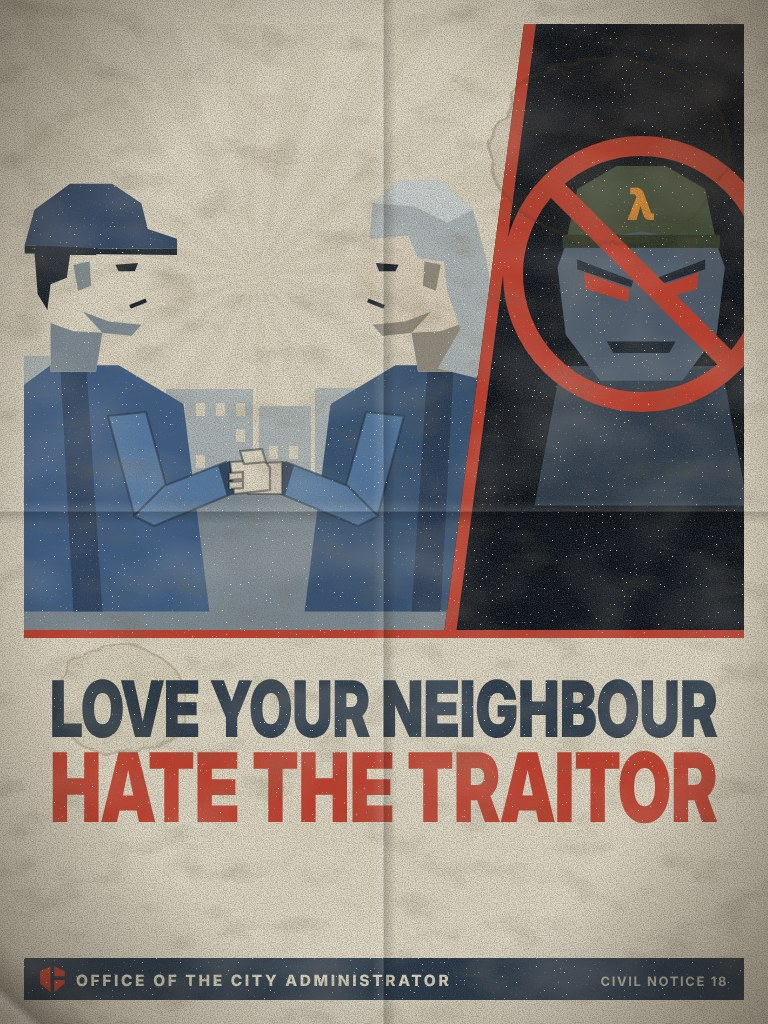
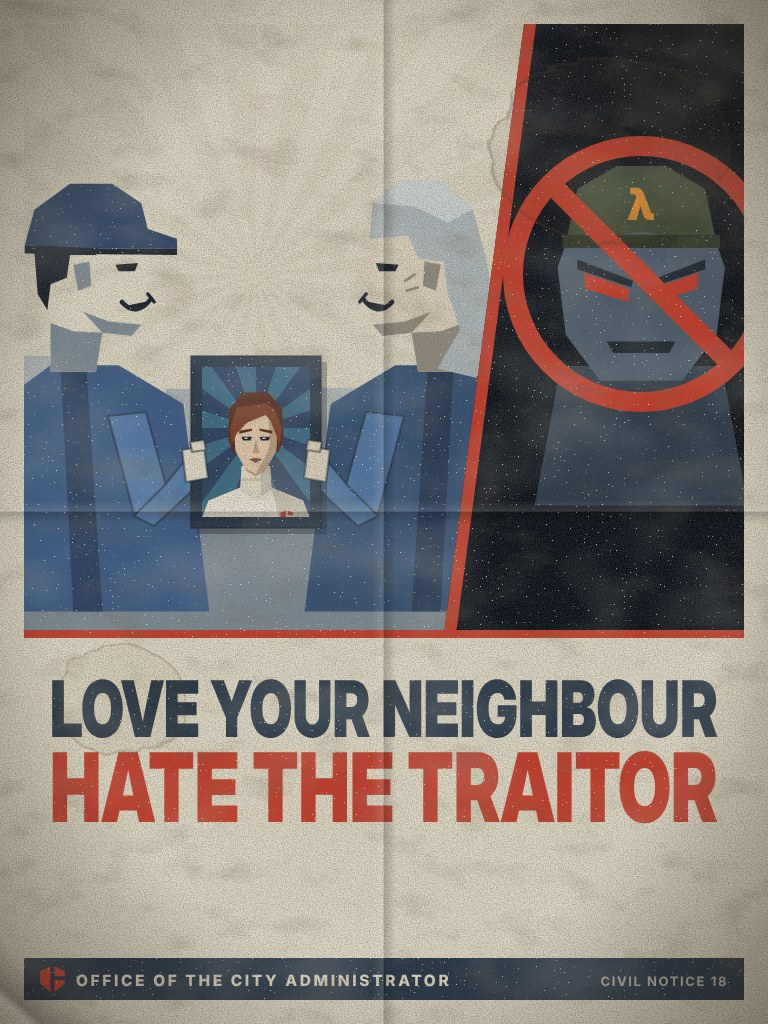
Slogan poster: the younger hands the older a portrait of the Administrator
The handshake is gone. A younger man hands an older woman a framed
portrait of the Administrator, and both are smiling.

Claude-Session: https://claude.ai/code/session_01Y8SXQorFoe55U3GQd1K7aN

Changed region(s): [[0.2188, 0.3438, 0.4688, 0.5312], [0.1562, 0.2812, 0.2188, 0.3125], [0.4688, 0.2812, 0.5, 0.3125]]

diff --git a/_dev/posters/slogan.js b/_dev/posters/slogan.js
@@ -1,25 +1,29 @@
 // The owner's slogan as a poster (14 November): LOVE YOUR NEIGHBOUR, HATE THE TRAITOR. Kind "neighbour",
 // one of the Director of Propaganda's hand-hung posters (entities/lc_civposter.lua). Drawn by gen.js.
-const { C, P, R, G, rays, head } = require('./lib.js');
+const { C, P, R, G, rays, head, adminBust } = require('./lib.js');
 const { E, L, T, skyline } = require('./dreamkit.js');
 
 const ART = {};
 ART.neighbour = () => {
   let s = R(0, 0, 720, 610, '#d6cfba') + rays(232, 250, 40, 1000, C.paper, 0, 360, 'opacity=".75"');
   s += skyline(470, C.steel2, '#d6cfba', 22, 110) + R(0, 466, 720, 144, C.steel);
-  // the neighbours: a man and a woman of the block, shaking hands
+  // the neighbours: the younger hands the older a framed portrait of the Administrator; both smile
   const body = (t, bd) => P('M-34,270 L-16,152 L30,118 L72,118 L112,142 L128,270Z', t) + P('M36,118 L52,118 L62,270 L44,270Z', bd);
   const scarf = P('M16,52 L24,22 L44,4 L70,4 L86,18 L88,40 L64,38 L58,52 L42,54 L40,72 L32,96 L46,120 L22,126 L10,86Z', C.steel2) + P('M24,22 L44,4 L70,4 L86,18 L60,20 L40,30Z', '#c9d0d0');
-  s += G('translate(-22,150) scale(1.62)', body(C.blue, C.blueD) + head({ cap: C.blueD, smile: true }));
-  s += G('translate(488,150) scale(-1.62,1.62)', body('#335073', '#263a55') + head({ skin: '#d8cdb8', sh: '#8f8a7c', hair: C.steel2, smile: true }) + scarf);
-  // their arms (shoulder, elbow, wrist), meeting in the open between them: his thumb over her hand
+  const smile = L('M74,79 Q83,89 92,77', C.ink, 2.8) + L('M90,74 L94,79', C.ink, 2);
+  const skinB = '#d8cdb8', shB = '#8f8a7c';
+  s += G('translate(-22,150) scale(1.62)', body(C.blue, C.blueD) + head({ cap: C.blueD }) + smile);
+  s += G('translate(488,150) scale(-1.62,1.62)', body('#335073', '#263a55') + head({ skin: skinB, sh: shB, hair: C.steel2 }) + scarf + smile + L('M60,62 L66,66 M58,70 L65,72', shB, 1.6));
   const O = `stroke="${C.ink}" stroke-width="2.2" stroke-opacity=".5" stroke-linejoin="round"`;
-  const skinB = '#d8cdb8';
-  s += P('M380,392 L342,388 L318,476 L354,490Z', '#4f77a3', O) + P('M354,492 L324,462 L262,438 L252,468 L334,502Z', '#4f77a3', O) + P('M270,441 L258,437 L249,468 L261,472Z', '#263a55');
-  s += P('M222,440 L258,438 L258,470 L224,470Z', skinB, O);
-  s += P('M84,392 L122,388 L146,476 L110,490Z', C.blue2, O) + P('M110,492 L140,462 L202,438 L212,468 L130,502Z', C.blue2, O) + P('M194,441 L206,437 L215,468 L203,472Z', C.blueD);
-  s += P('M206,438 L240,436 L246,444 L246,466 L210,470Z', C.paper, O) + P('M216,427 L238,425 L242,438 L220,440Z', C.paper, O);
-  s += P('M205,449 L219,448 L219,455 L205,456Z', skinB, O) + P('M205,458 L219,457 L219,464 L205,465Z', skinB, O);
+  // their arms (shoulder, elbow, wrist), out to the frame
+  s += P('M380,392 L342,388 L318,476 L354,490Z', '#4f77a3', O) + P('M354,492 L324,462 L296,428 L282,454 L334,502Z', '#4f77a3', O);
+  s += P('M84,392 L122,388 L146,476 L110,490Z', C.blue2, O) + P('M110,492 L140,462 L168,428 L182,454 L130,502Z', C.blue2, O);
+  // the portrait
+  s += R(173, 338, 130, 172, '#10161f', 'opacity=".35"') + R(167, 332, 130, 172, C.slate, O) + R(178, 343, 108, 150, C.blueD);
+  s += `<clipPath id="gift"><rect x="178" y="343" width="108" height="150"/></clipPath><g clip-path="url(#gift)">` + rays(232, 404, 20, 240, C.cyan, 0, 360, 'opacity=".3"') + G('translate(168,352) scale(0.75)', adminBust({ pin: C.red })) + '</g>';
+  // his hand letting go of it, hers taking it
+  s += P('M158,426 L180,422 L184,454 L162,458Z', C.paper, O) + P('M166,418 L180,416 L182,426 L168,428Z', C.paper, O);
+  s += P('M306,426 L284,422 L280,454 L302,458Z', skinB, O) + P('M298,418 L284,416 L282,426 L296,428Z', skinB, O);
   // the traitor
   s += P('M500,0 L720,0 L720,610 L420,610Z', '#0b1119') + P('M500,0 L512,0 L432,610 L420,610Z', C.red);
   s += G('translate(322,96) scale(0.82)', [

diff --git a/POSTER_BRIEF.md b/POSTER_BRIEF.md
@@ -95,4 +95,4 @@ Some plain curfew posters show a dream's poster instead (`docs/features/dream-po
 
 ## Her slogan
 
-`neighbour` (and `neighbour_x`, painted over: LIES): **LOVE YOUR NEIGHBOUR, HATE THE TRAITOR**, the owner's own slogan (14 November), with no smaller words. Two neighbours, a man and a woman of the block, shaking hands (no heart: the owner, 14 November); beside them, in the dark, a Resistance face struck out in red. It is on the Director of Propaganda's poster roll with the eleven above. Drawn by `_dev/posters/slogan.js`.
+`neighbour` (and `neighbour_x`, painted over: LIES): **LOVE YOUR NEIGHBOUR, HATE THE TRAITOR**, the owner's own slogan (14 November), with no smaller words. Two neighbours, both smiling: a younger man hands an older woman a framed portrait of the Administrator (the owner's idea, 14 November; no handshake, no heart); beside them, in the dark, a Resistance face struck out in red. It is on the Director of Propaganda's poster roll with the eleven above. Drawn by `_dev/posters/slogan.js`.
